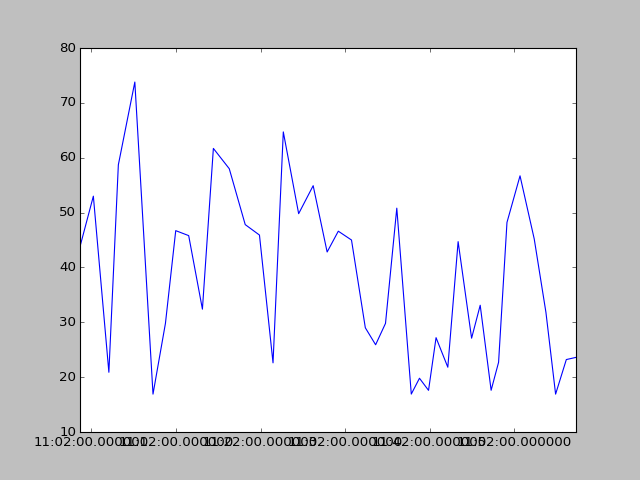
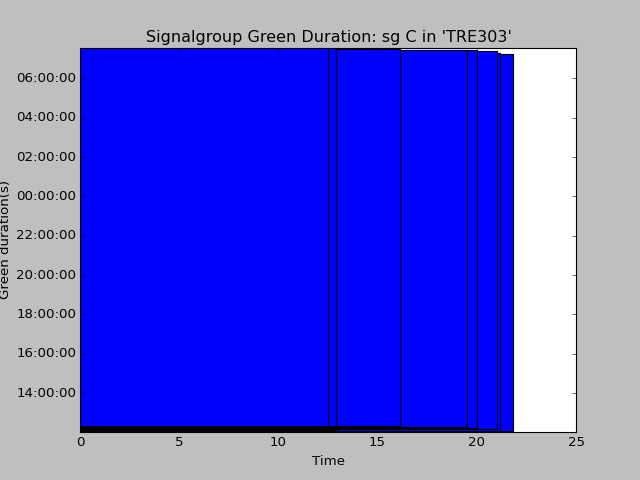
matplotlib import

diff --git a/traffic/analysis.py b/traffic/analysis.py
@@ -4,8 +4,13 @@ import psycopg2.extras
 import datetime
 from operator import itemgetter
 from datetime import timedelta
+
+import matplotlib
+matplotlib.use('Agg')
 import matplotlib.pyplot as plt
+
 from matplotlib import pylab
+
 from pylab import *
 import PIL
 import PIL.Image
@@ -157,6 +162,7 @@ def get_sg_status(location_name,conn_string,sg_name,time1,time2):
         sg_status.append([])
     
     for i in range(len(main_data)):
+        rowtime = main_data[i][0].strftime('%Y-%m-%d %H:%M:%S')
         sg_status[i].append(main_data[i][0])
         sg_status[i].append(main_data[i][1][sg_index])
     sg_status_sorted = sorted(sg_status, key = itemgetter(0))
@@ -175,7 +181,7 @@ def get_green_time(location_name, conn_string,sg_name,time1,time2):
     green_state_list = ["0","1","3","4","5","6","7","8",":"]
     start_green_time = None
     for s in sg_status:
-        if not green_on and s[1] in green_state_list:
+        if not green_on and s[1] in green_state_list: 
             start_green_time = s[0]
             green_on = True
         elif green_on and s[1] not in green_state_list:
@@ -185,6 +191,9 @@ def get_green_time(location_name, conn_string,sg_name,time1,time2):
             minimum_green_list.append(minimum_green)
             print minimum_green,start_green_time
     plt.plot(start_green_time_list, minimum_green_list)
+    plt.xlabel('Time')
+    plt.ylabel('Green duration(s)' )
+    plt.title('Signalgroup Green Duration: sg '+ sg_name+ ' in '+location_name)
     return getBufferImage()
 
 def getBufferImage():
